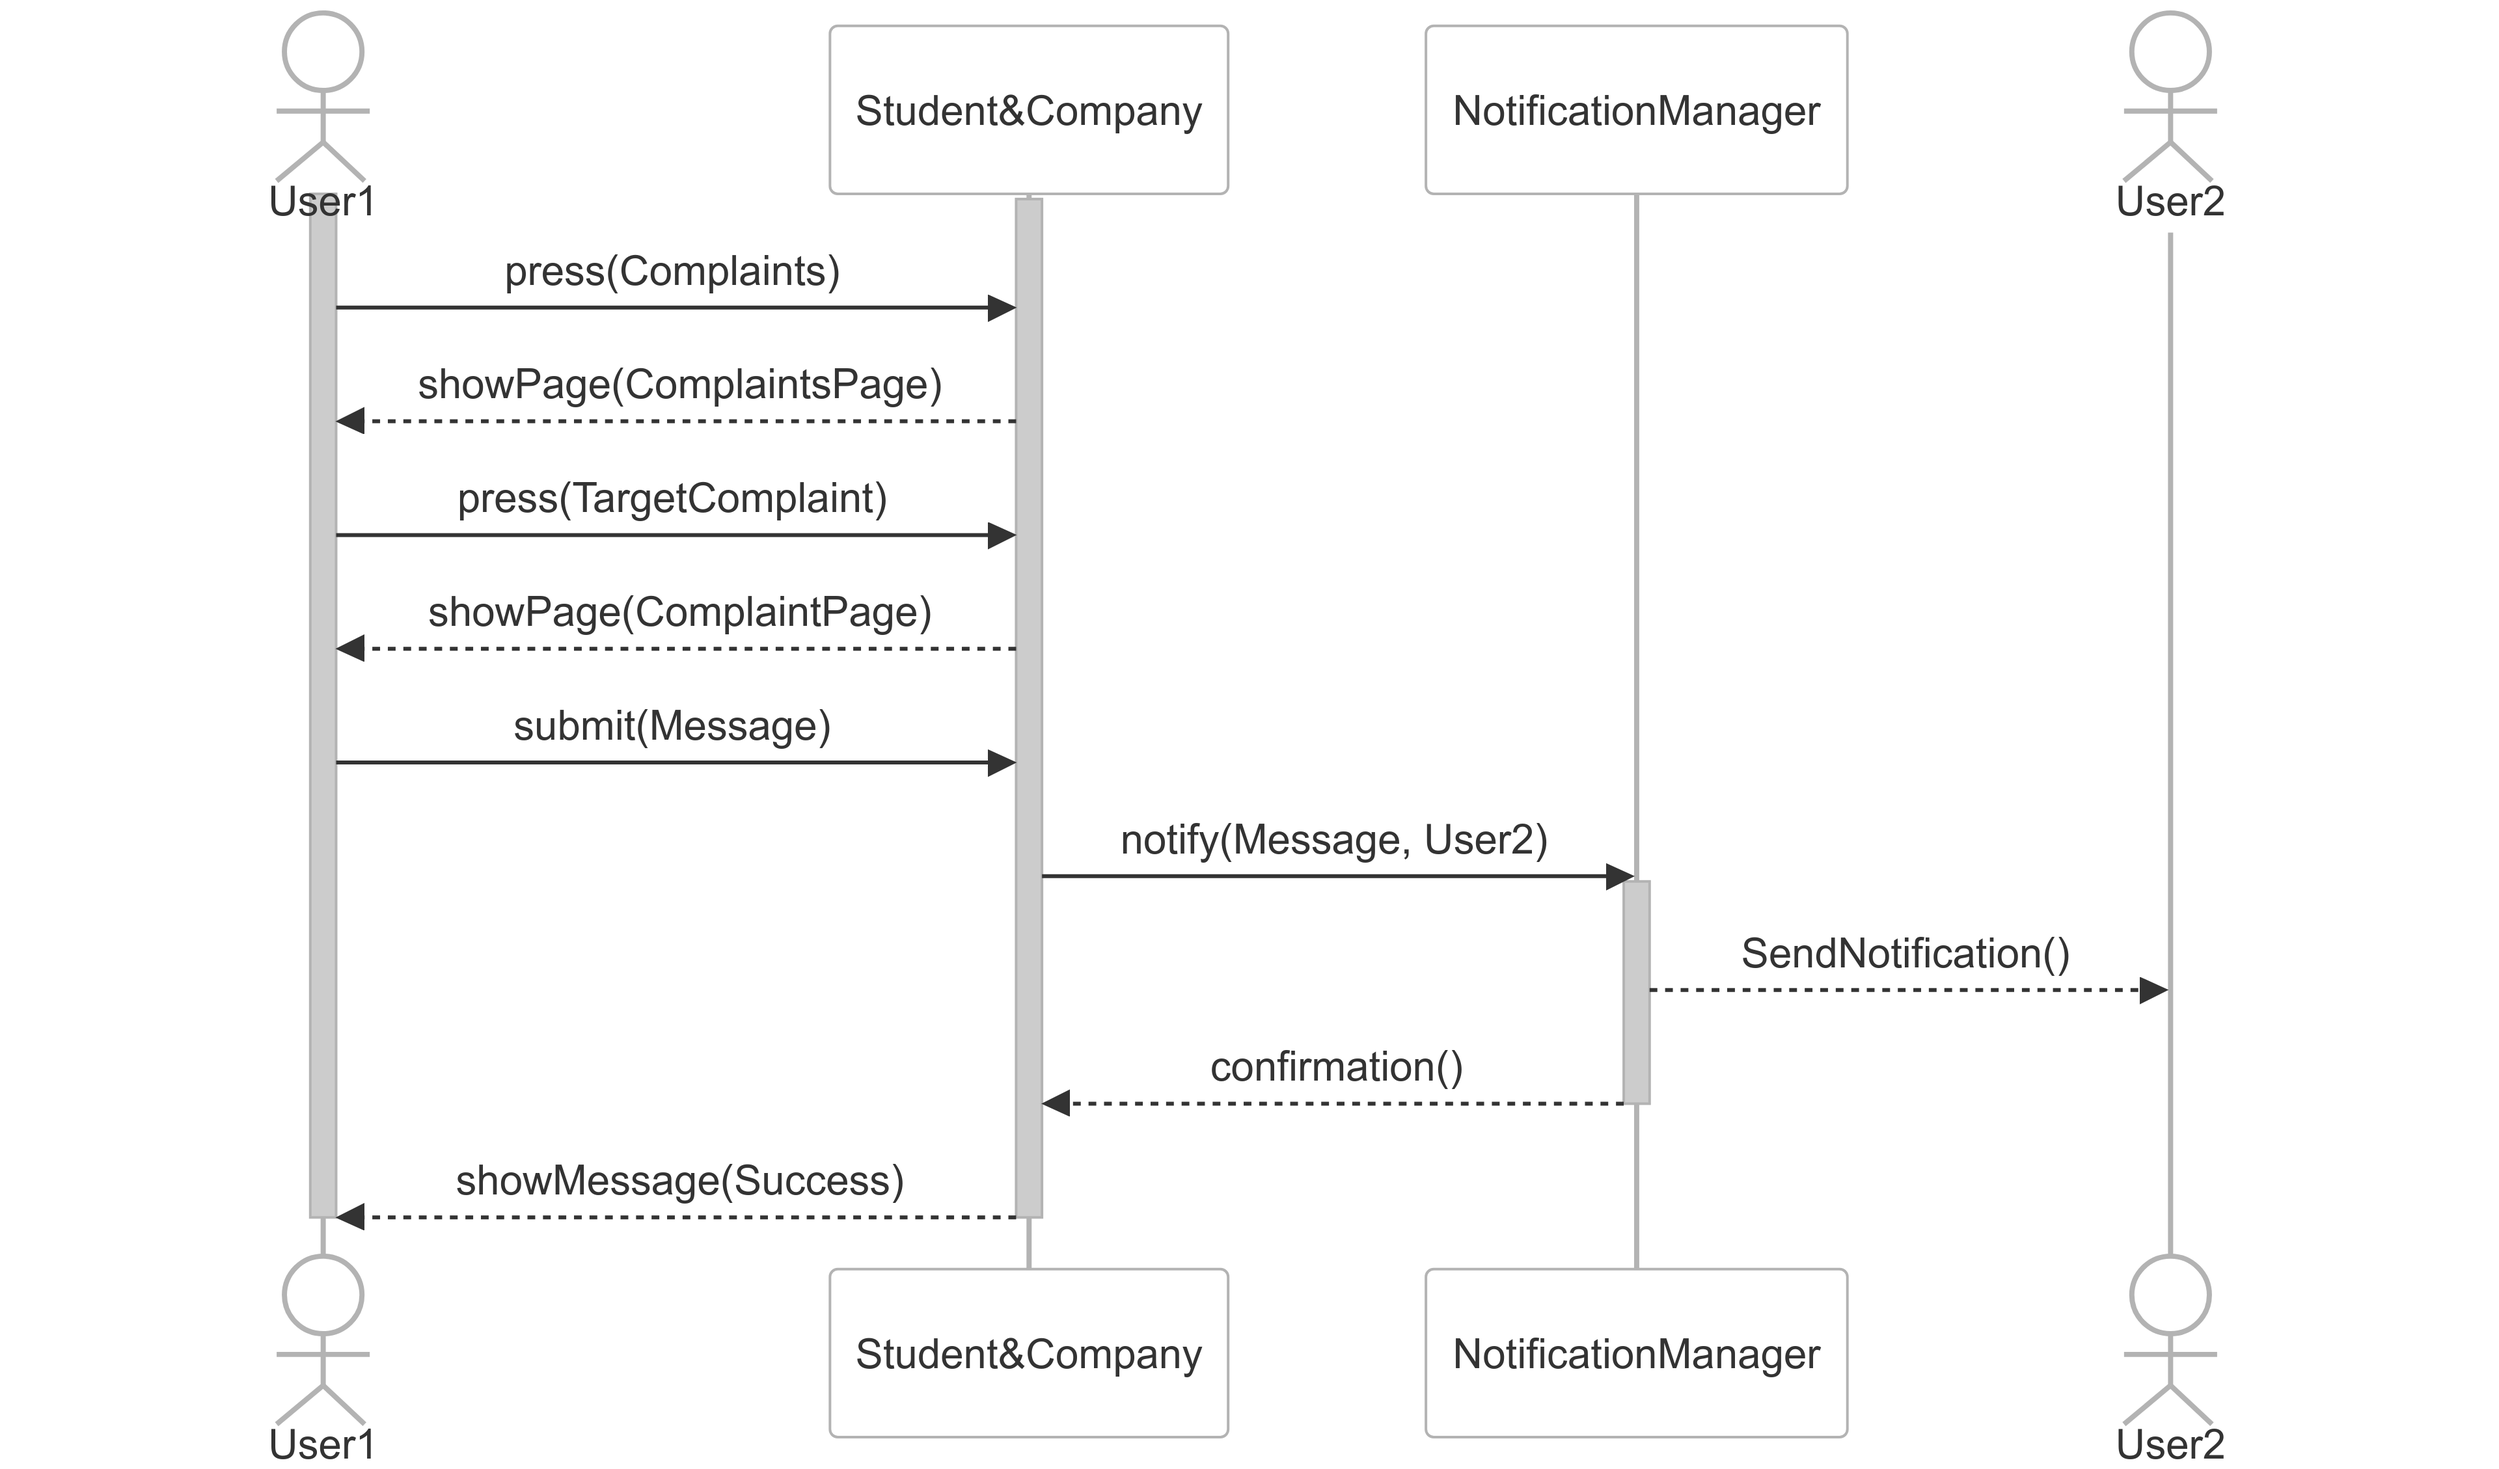
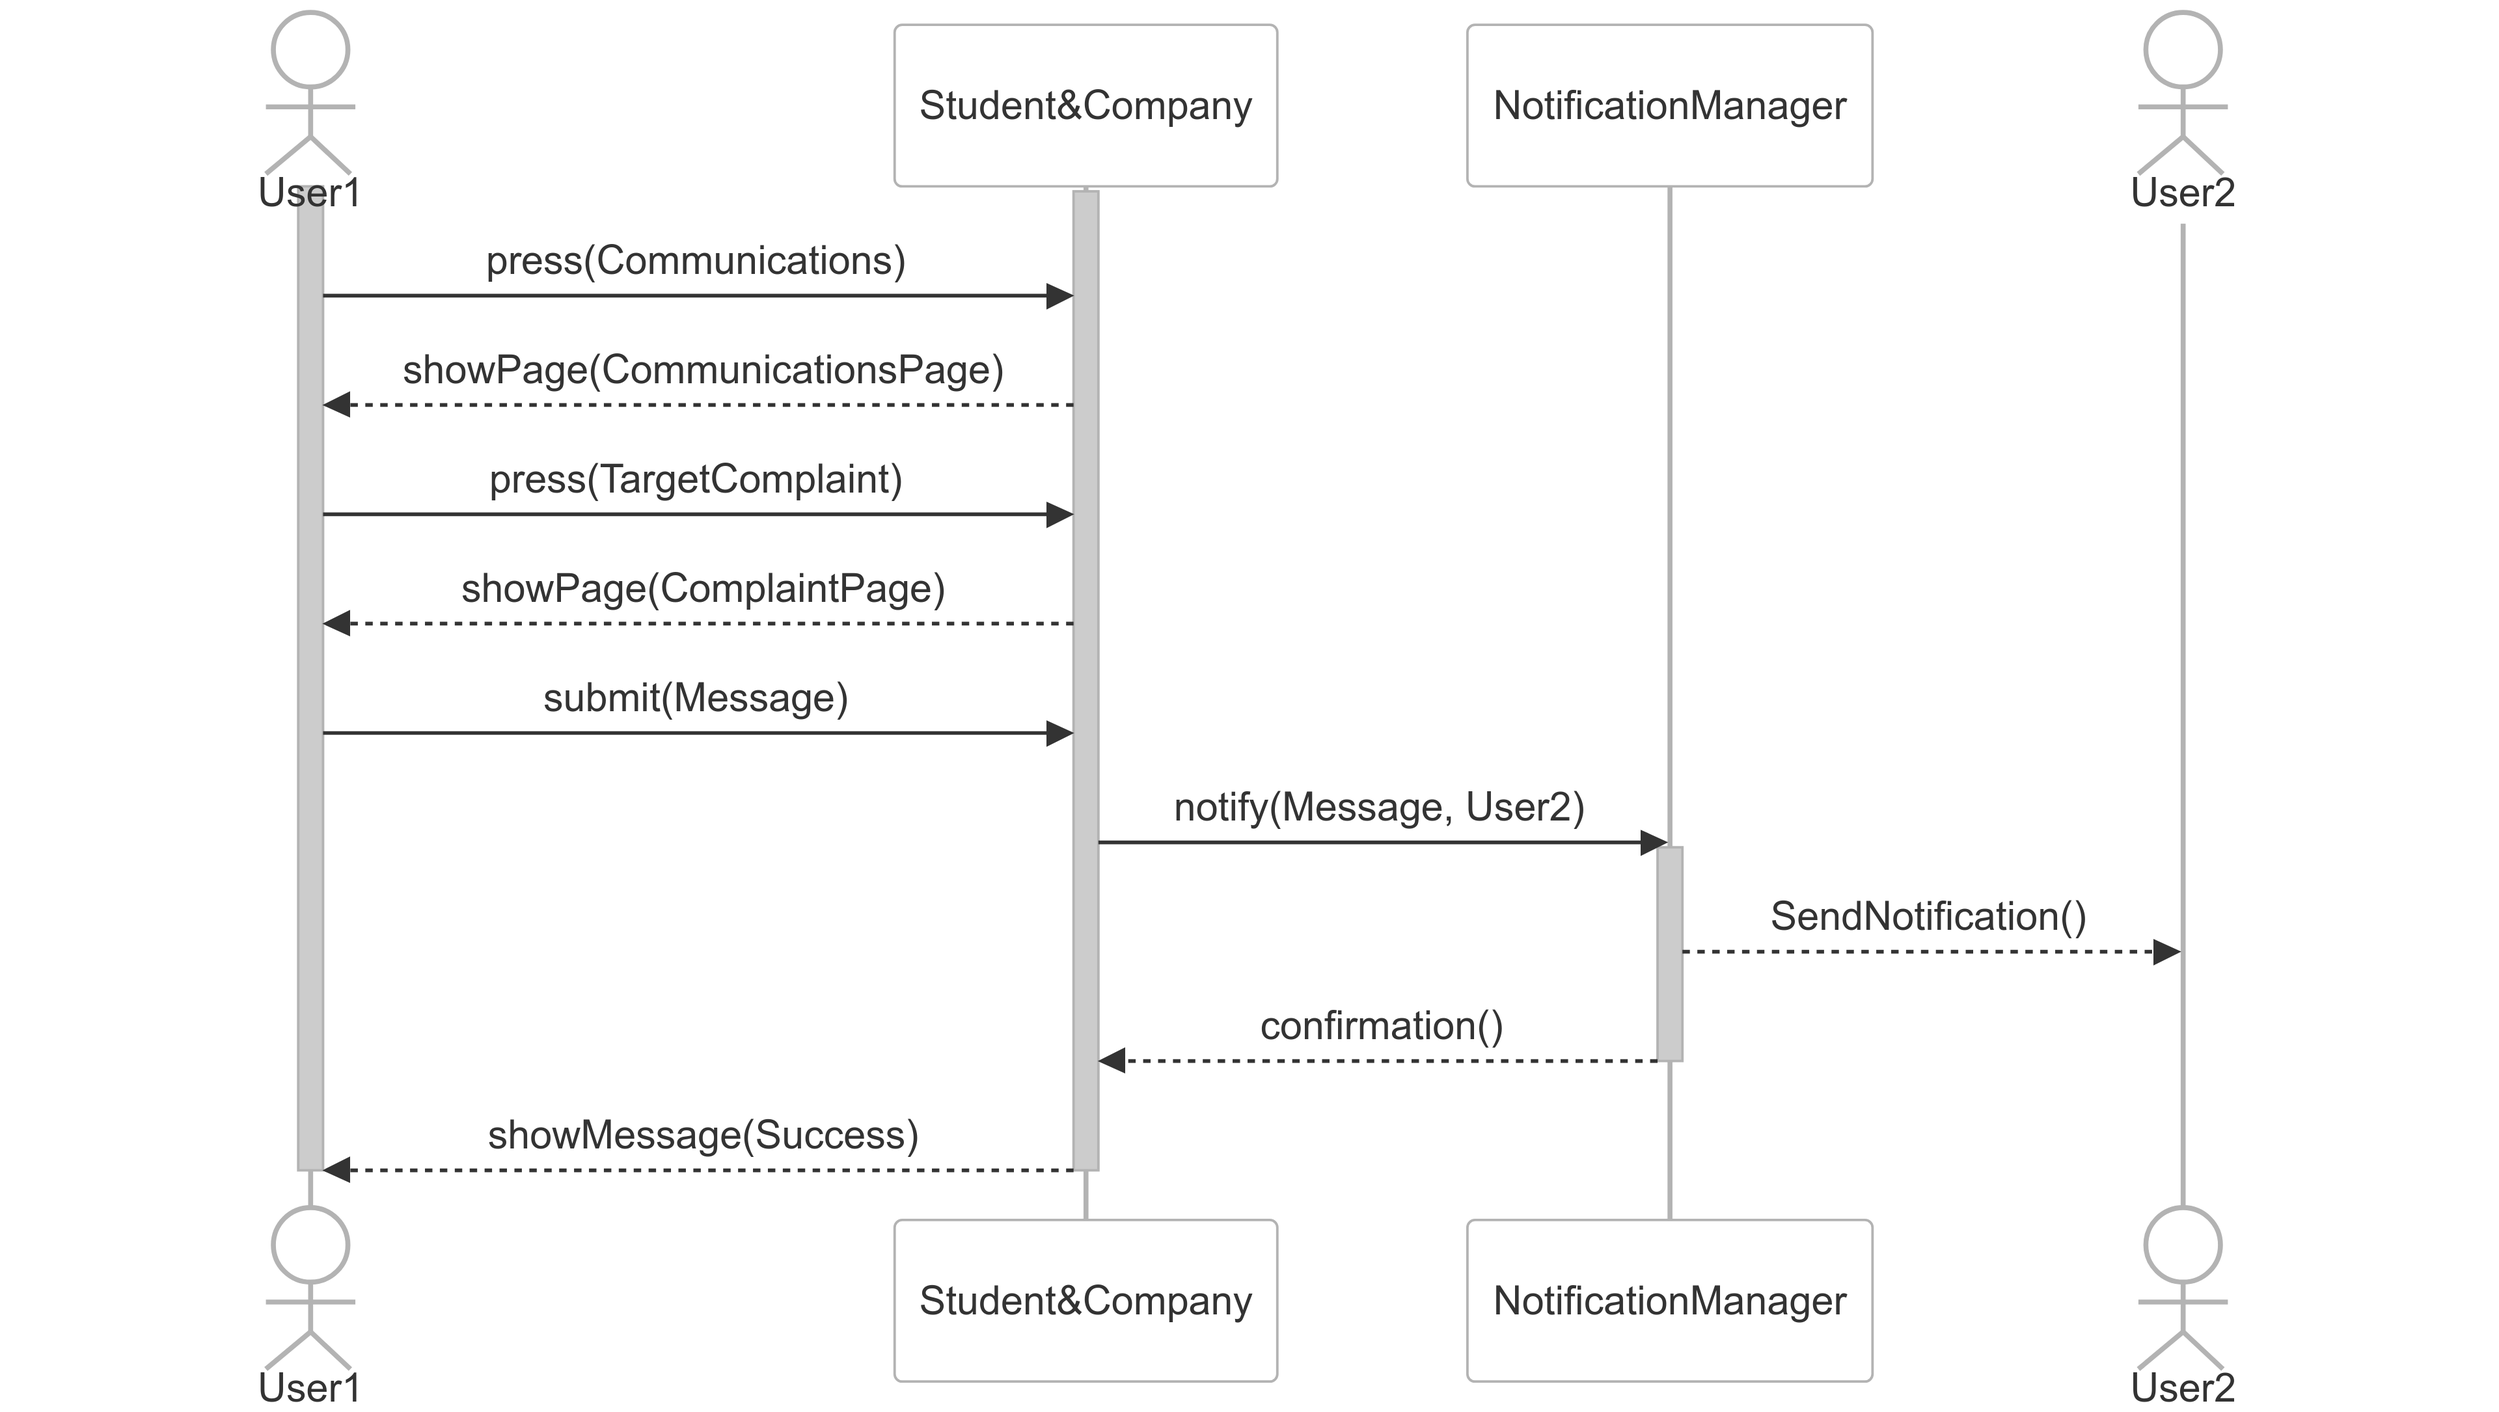
state charts, sequence diagrams and use cases refactored

diff --git a/Diagrams/SequenceDiagrams/SequenceDiagrams.md b/Diagrams/SequenceDiagrams/SequenceDiagrams.md
@@ -37,7 +37,7 @@ sequenceDiagram
             deactivate Email Provider
             activate Student&Company
             Student&Company ->> Student&Company: Activate(Student)
-            Student&Company -->> Student: showPage(DashBoard)
+            Student&Company -->> Student: showPage(Dashboard)
             deactivate Student&Company
         end
     else Unsuccessful Authentication
@@ -61,7 +61,7 @@ sequenceDiagram
     Company ->> Student&Company: press(SignUpMenu)
     Student&Company -->> Company: showPage(SignUpPage)
     Company ->> Student&Company: submit(CompanyInfo)
-    Student&Company ->> Student&Company: Check(VAC)
+    Student&Company ->> Student&Company: Check(VAC, email)
     alt Successful Authentication
         Student&Company ->> Student&Company: Register(Company)
         Student&Company ->> Email Provider: send(ConfirmationEmail)
@@ -83,7 +83,7 @@ sequenceDiagram
             deactivate Email Provider
             activate Student&Company
             Student&Company ->> Student&Company: Activate(Company)
-            Student&Company -->> Company: showPage(DashBoard)
+            Student&Company -->> Company: showPage(Dashboard)
             deactivate Student&Company
         end
         else Unsuccessful Authentication
@@ -107,7 +107,7 @@ sequenceDiagram
     University ->> Student&Company: press(SignUpMenu)
     Student&Company -->> University: showPage(SignUpPage)
     University ->> Student&Company: submit(UniversityInfo)
-    Student&Company ->> Student&Company: Check(VAC)
+    Student&Company ->> Student&Company: Check(VAC, email)
     alt Successful Authentication
         Student&Company ->> Student&Company: Register(University)
         Student&Company ->> Email Provider: send(ConfirmationEmail)
@@ -129,7 +129,7 @@ sequenceDiagram
             deactivate Email Provider
             activate Student&Company
             Student&Company ->> Student&Company: Activate(University)
-            Student&Company -->> University: showPage(DashBoard)
+            Student&Company -->> University: showPage(Dashboard)
             deactivate Student&Company
         end
         else Unsuccessful Authentication
@@ -155,7 +155,7 @@ sequenceDiagram
     Student&Company ->> Student&Company: Authenticate(Credentials)
     alt Successful Authentication
         Student&Company ->> Student&Company: SignIn(User)
-        Student&Company -->> User: showPage(DashBoard)
+        Student&Company -->> User: showPage(Dashboard)
         deactivate Student&Company
     else Unsuccessful Authentication
         activate Student&Company
@@ -174,8 +174,7 @@ sequenceDiagram
     actor Company
     activate Student
     activate Student&Company
-    Student ->> Student&Company: press(AccountMenu)
-    Student ->> Student&Company: press(LoadCurriculum)
+    Student ->> Student&Company: press(CVMenu)
     Student&Company -->> Student: showPage(CurriculumPage)
     Student ->> Student&Company: submit(Curriculum)
     Student&Company ->> Student&Company: Check(Curriculum)
@@ -211,7 +210,7 @@ sequenceDiagram
     activate Company
     activate Student&Company
     Company ->> Student&Company: press(MyInternships)
-    Student&Company -->> Company: showPage(MyInternshipPage)
+    Student&Company -->> Company: showPage(MyInternshipsOffersPage)
     Company ->> Student&Company: press(CreateInternship)
     Student&Company -->> Company: showPage(InternshipCreationPage)
     Company ->> Student&Company: submit(Internship)
@@ -355,8 +354,8 @@ sequenceDiagram
     actor University
     activate Participant1
     activate Student&Company
-    Participant1 ->> Student&Company: press(Complaints)
-    Student&Company -->> Participant1: showPage(ComplaintsPage)
+    Participant1 ->> Student&Company: press(Communications)
+    Student&Company -->> Participant1: showPage(CommunicationsPage)
     Participant1 ->> Student&Company: press(CreateComplaint)
     Student&Company -->> Participant1: showPage(ComplaintCreationPage)
     Participant1 ->> Student&Company: submit(Complaint)
@@ -381,8 +380,8 @@ sequenceDiagram
     actor User2
     activate User1
     activate Student&Company
-    User1 ->> Student&Company: press(Complaints)
-    Student&Company -->> User1: showPage(ComplaintsPage)
+    User1 ->> Student&Company: press(Communications)
+    Student&Company -->> User1: showPage(CommunicationsPage)
     User1 ->> Student&Company: press(TargetComplaint)
     Student&Company -->> User1: showPage(ComplaintPage)
     User1 ->> Student&Company: submit(Message)
@@ -405,8 +404,8 @@ sequenceDiagram
     actor Company
     activate University
     activate Student&Company
-    University ->> Student&Company: press(Complaints)
-    Student&Company -->> University: showPage(ComplaintsPage)
+    University ->> Student&Company: press(Communications)
+    Student&Company -->> University: showPage(CommunicationsPage)
     University ->> Student&Company: press(TargetComplaint)
     Student&Company -->> University: showPage(ComplaintPage)
     University ->> Student&Company: submit(Message)
@@ -432,8 +431,8 @@ sequenceDiagram
     actor Company
     activate University
     activate Student&Company
-    University ->> Student&Company: press(Complaints)
-    Student&Company -->> University: showPage(ComplaintsPage)
+    University ->> Student&Company: press(Communications)
+    Student&Company -->> University: showPage(CommunicationsPage)
     University ->> Student&Company: press(TargetComplaint)
     Student&Company -->> University: showPage(ComplaintPage)
     University ->> Student&Company: press(TerminateInternship)

diff --git a/RASD.md b/RASD.md
@@ -479,10 +479,10 @@ Given the system's non-essential nature, overly rigid performance standards are 
 1. The company selects the "Sign up" option.
 2. The platform opens the sign-up page.
 3. The company selects the "Company" option, provides the required information (Company name, Company headquarters address, VAT number, email and password) and click the "Sign Up" button.
-4. The platform sends a confirmation email to the provided email address through the Email Provider.
-5. The platform shows a message to the Company to confirm the registration.
-6. The Company confirms the registration by clicking on the link in the email.
-7. The platform validates the VAT number and checks if it is unique.
+4. The platform validates the VAT number and the email and checks if it is unique.
+5. The platform sends a confirmation email to the provided email address through the Email Provider.
+6. The platform shows a message to the Company to confirm the registration.
+7. The Company confirms the registration by clicking on the link in the email.
 8. The platform confirms the registration and activates the account.
 9. The Company is redirected to the platform's Dashboard.
 
@@ -491,7 +491,7 @@ Given the system's non-essential nature, overly rigid performance standards are 
 **Exceptions:** 
 - The Company provides incorrect information.
 - The Company does not confirm the registration.
-- The VAT number is already in use.
+- The VAT number or the email is already in use.
 
 ### RegisterUniversity
 **Actors:** Company, Email Provider.
@@ -502,10 +502,10 @@ Given the system's non-essential nature, overly rigid performance standards are 
 1. The university selects the "Sign up" option.
 2. The platform opens the sign-up page.
 3. The university selects the "University" option, provides the required information (University Name, University description, VAT number, email of the University office that will manage the internship program, and password) and click the "Sign Up" button.
-4. The platform sends a confirmation email to the provided email address through the Email Provider.
-5. The platform shows a message to the University to confirm the registration.
-6. The University confirms the registration by clicking on the link in the email.
-7. The platform validates the VAT number and checks if it is unique.
+4. The platform validates the VAT number and the email and checks if it is unique.
+5. The platform sends a confirmation email to the provided email address through the Email Provider.
+6. The platform shows a message to the University to confirm the registration.
+7. The University confirms the registration by clicking on the link in the email.
 8. The platform confirms the registration and activates the account.
 9. The University is redirected to the platform's Dashboard.
 
@@ -514,7 +514,7 @@ Given the system's non-essential nature, overly rigid performance standards are 
 **Exceptions:** 
 - The University provides incorrect information.
 - The University does not confirm the registration.
-- The VAT number is already in use.
+- The VAT number or the email is already in use.
 
 ### LoginUser
 **Actors:** User
@@ -763,11 +763,11 @@ To me, this is clearer-->
 
 **Exceptions:**
 - None
-<!-- [(10h) Matteo] -->
+<!-- [(13h) Matteo] -->
 
 
 ## 3.2.3 Sequence Diagrams
-<!-- [(6h) Matteo] -->
+<!-- [(8h) Matteo] -->
 
 
 ## 3.2.4 Requirements Mapping
